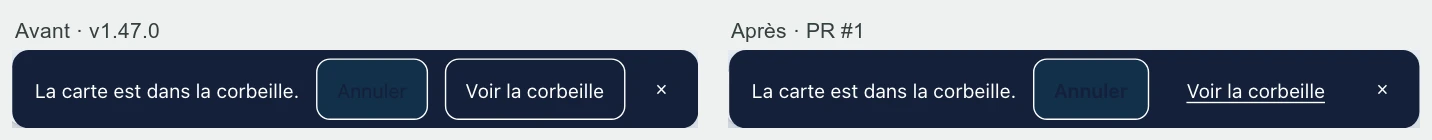
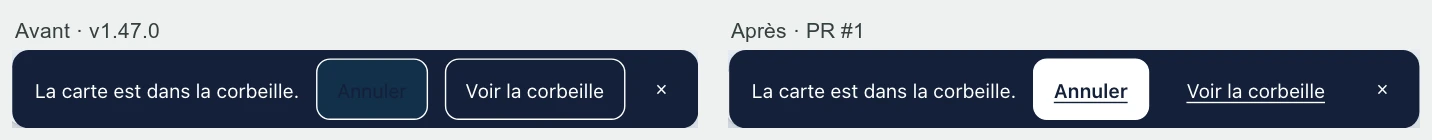
fix(ui): garder Annuler lisible au survol dans la corbeille

Changed region(s): [[0.7067, 0.4, 0.7989, 0.8571]]

diff --git a/src/styles/writing.css b/src/styles/writing.css
@@ -518,6 +518,10 @@ kbd { display: inline-block; min-width: 1.6em; padding: 1px 6px; border: 1px sol
 @media (any-hover: hover) { .trash-notice .ghost-button:hover { background: var(--strong-hover); color: var(--strong-bg); } }
 .trash-notice .trash-undo { background: var(--strong-fg); color: var(--strong-bg); font-weight: 600; }
 .trash-notice .trash-open { border-color: transparent; text-decoration: underline; text-underline-offset: 3px; }
+@media (any-hover: hover) {
+  .trash-notice .trash-undo:hover { background: var(--strong-fg); color: var(--strong-bg); text-decoration: underline; text-underline-offset: 3px; }
+  .trash-notice .trash-open:hover { background: transparent; color: var(--strong-fg); text-decoration-thickness: 2px; }
+}
 .trash-notice .icon-button { background: transparent; color: var(--strong-fg); border-color: transparent; }
 /* Croix en haut à droite, à l'endroit attendu ; le texte et les boutons lui laissent la place (padding). */
 .trash-notice .trash-notice-close { position: absolute; top: 4px; right: 4px; width: 44px; height: 44px; }
